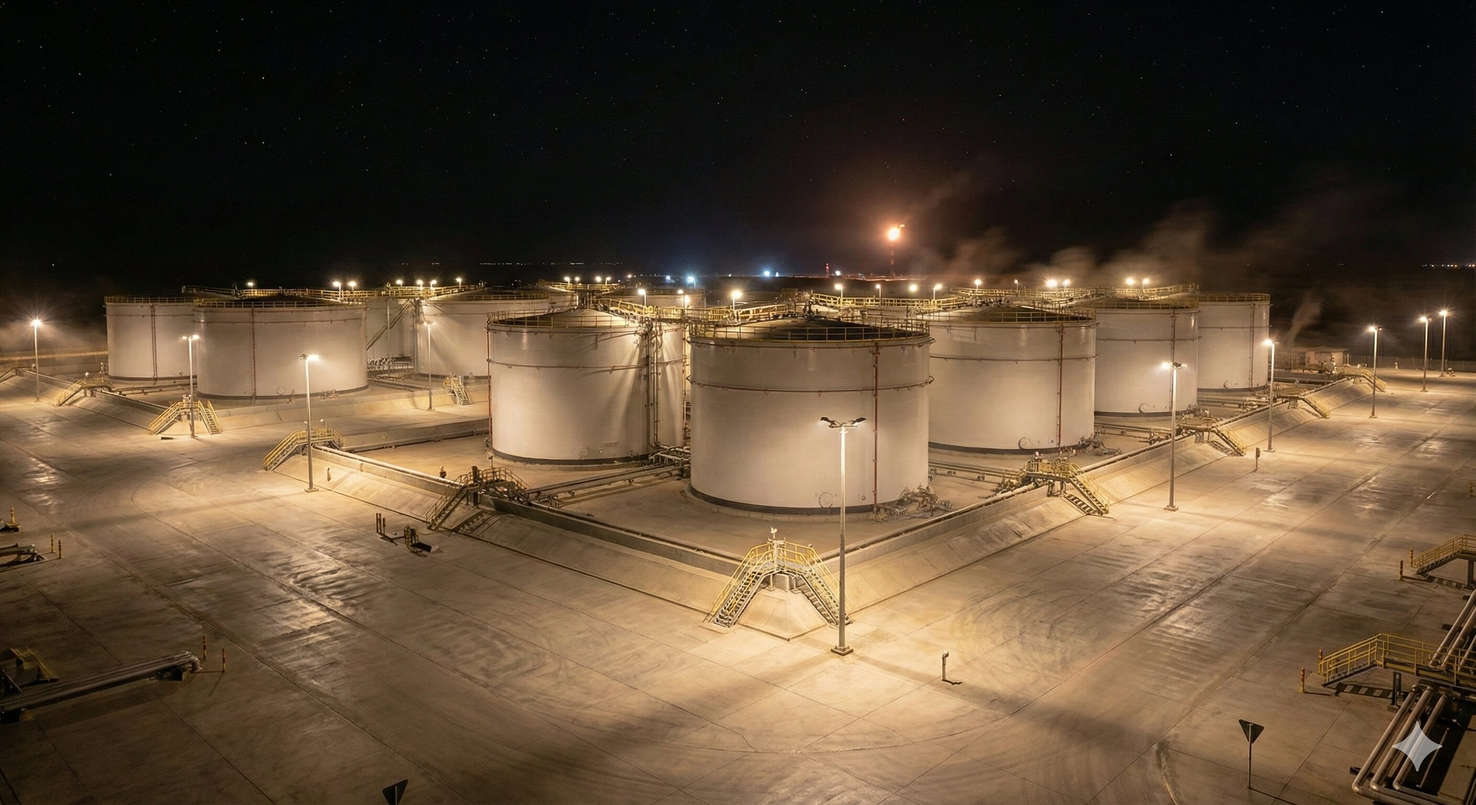
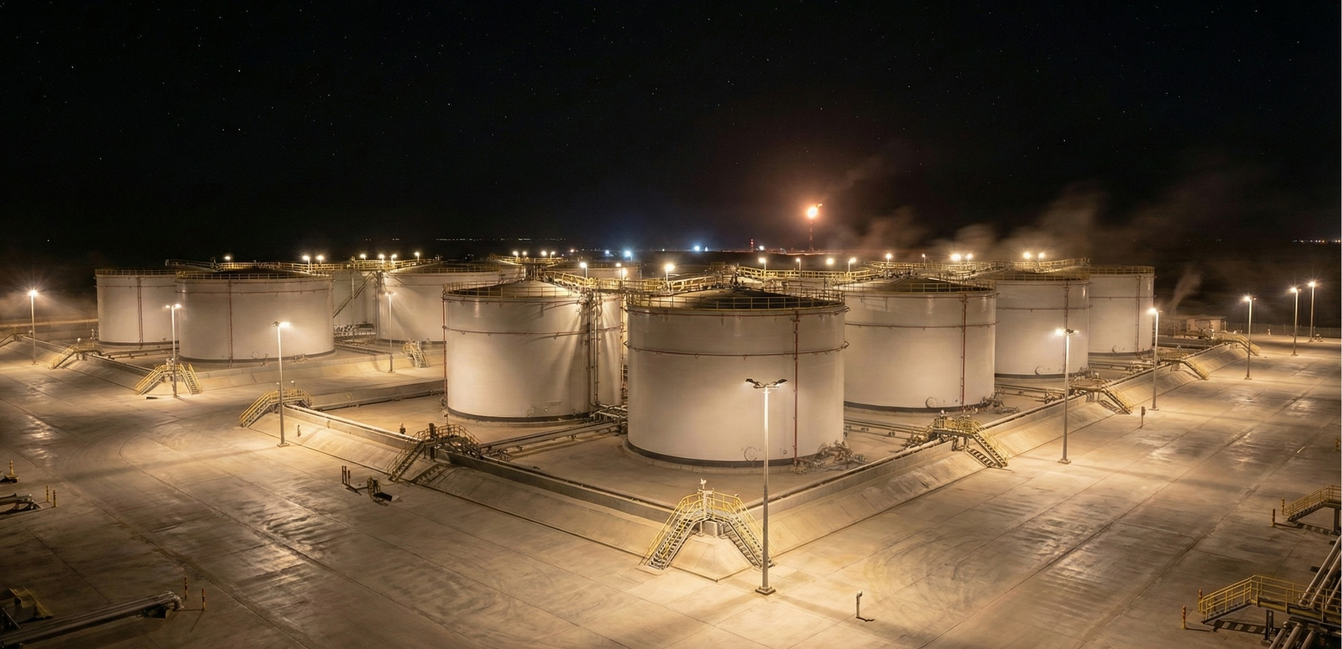
tr update

diff --git a/src/(pages)/project/Project.tsx b/src/(pages)/project/Project.tsx
@@ -101,45 +101,51 @@ export const Project = ({ project }: ProjectProps) => {
             {`Projects.Project.${project.id}.smallDescription`}
           </SpanL>
           <div className="flex flex-col gap-5">
-            {DetailFields.map((field, index) => (
-              <Fragment key={field.key}>
-                <motion.div
-                  initial={{ opacity: 0 }}
-                  animate={{ opacity: 1 }}
-                  transition={{ duration: 0.5, delay: index * 2 * 0.1 }}
-                  className="bg-on-primary w-full h-px"
-                />
-                <motion.div
-                  key={field.label}
-                  initial={{ opacity: 0 }}
-                  animate={{ opacity: 1 }}
-                  transition={{ duration: 0.5, delay: (index * 2 + 1) * 0.1 }}
-                  className="flex items-center justify-between"
-                >
-                  <SpanL upperCase noWrap className="text-sm font-extralight whitespace-nowrap max-2xl:text-xs">
-                    {field.label}
-                  </SpanL>
-                  <div className="flex gap-1 items-center font-semibold max-2xl:text-sm">
-                    {field.valueForm === "object" ? (
-                      <span>{project[field.key as keyof typeof Project]}</span>
-                    ) : field.valueForm === "startDate" || field.valueForm === "endDate" ? (
-                      <span>{formatProjectDate(project[field.key as keyof typeof Project], locale)}</span>
-                    ) : field.valueForm === "number" ? (
-                      <span>{formatProjectNumber(project[field.key as keyof typeof Project], locale)}</span>
-                    ) : field.valueForm === "localeString" ? (
-                      <SpanL className="text-end">{`Projects.Project.${project.id}.${field.key}`}</SpanL>
-                    ) : field.valueForm === "ProjectStatus" ? (
-                      <SpanL className={`text-end ${project[field.key as keyof typeof Project] ? "text-green-500 font-bold" : ""}`}>
-                        {`Common.${project[field.key as keyof typeof Project] ? "completed" : "onGoing"}`}
-                      </SpanL>
-                    ) : (
-                      <span>No value</span>
-                    )}
-                    {field.unit && <SpanL>{`Common.${field.unit}`}</SpanL>}
-                  </div>
-                </motion.div>
-              </Fragment>
-            ))}
+            {DetailFields.map((field, index) => {
+              if (field.valueForm === "number" && !(field.key in project)) return null;
+
+              return (
+                <Fragment key={field.key}>
+                  <motion.div
+                    initial={{ opacity: 0 }}
+                    animate={{ opacity: 1 }}
+                    transition={{ duration: 0.5, delay: index * 2 * 0.1 }}
+                    className="bg-on-primary w-full h-px"
+                  />
+                  <motion.div
+                    key={field.label}
+                    initial={{ opacity: 0 }}
+                    animate={{ opacity: 1 }}
+                    transition={{ duration: 0.5, delay: (index * 2 + 1) * 0.1 }}
+                    className="flex items-center justify-between"
+                  >
+                    <SpanL upperCase noWrap className="text-sm font-extralight whitespace-nowrap max-2xl:text-xs">
+                      {field.label}
+                    </SpanL>
+                    <div className="flex gap-1 items-center font-semibold max-2xl:text-sm">
+                      {field.valueForm === "object" ? (
+                        <span>{project[field.key as keyof typeof Project]}</span>
+                      ) : field.valueForm === "startDate" || field.valueForm === "endDate" ? (
+                        <span>
+                          {project[field.key as keyof typeof Project] == null ? "-" : formatProjectDate(project[field.key as keyof typeof Project], locale)}
+                        </span>
+                      ) : field.valueForm === "number" ? (
+                        <span>{formatProjectNumber(project[field.key as keyof typeof Project], locale)}</span>
+                      ) : field.valueForm === "localeString" ? (
+                        <SpanL className="text-end">{`Projects.Project.${project.id}.${field.key}`}</SpanL>
+                      ) : field.valueForm === "ProjectStatus" ? (
+                        <SpanL className={`text-end ${project[field.key as keyof typeof Project] ? "text-green-500 font-bold" : ""}`}>
+                          {`Common.${project[field.key as keyof typeof Project] ? "completed" : "onGoing"}`}
+                        </SpanL>
+                      ) : (
+                        <span>No value</span>
+                      )}
+                      {field.unit && <SpanL>{`Common.${field.unit}`}</SpanL>}
+                    </div>
+                  </motion.div>
+                </Fragment>
+              );
+            })}
           </div>
           {/* <ButtonL
             afterElement={<IoCloudDownloadOutline size={24} />}

diff --git a/src/constants/constants.tsx b/src/constants/constants.tsx
@@ -90,26 +90,25 @@ export const ProjectDetails = [
     id: "erbil-airport",
     client: "Mach Monument / Havatek",
     startDate: "2024-09-01",
-    endDate: "2026-04-01",
+    endDate: null,
     duration: 20,
     budget: 1150000,
-    manHours: null,
     services: [EngineeringService, ProcurementService],
     image: ErbilAirport,
     scopeCount: 7,
     isCompleted: false,
   },
   {
-    id: "khabat-power",
-    client: "MoE / Gama & POSCO",
-    startDate: "2015-06-01",
-    endDate: "2018-06-01",
-    duration: 36,
-    manHours: 598000,
-    budget: 6305500,
+    id: "khor-mor",
+    client: "Pearl Petroleum / Havatek",
+    startDate: "2022-02-01",
+    endDate: "2025-08-01",
+    duration: 42,
+    manHours: 948000,
+    budget: 9836000,
     services: [ConstructionService, PreCommissioningService],
-    image: KhabatPower,
-    scopeCount: 8,
+    image: KhorMor,
+    scopeCount: 10,
     isCompleted: true,
   },
   {
@@ -126,29 +125,16 @@ export const ProjectDetails = [
     isCompleted: true,
   },
   {
-    id: "khor-mor",
-    client: "Pearl Petroleum / Havatek",
-    startDate: "2022-02-01",
-    endDate: "2025-08-01",
-    duration: 42,
-    manHours: 948000,
-    budget: 9836000,
+    id: "khabat-power",
+    client: "M.O.E. / Gama & POSCO",
+    startDate: "2015-06-01",
+    endDate: "2018-06-01",
+    duration: 36,
+    manHours: 598000,
+    budget: 6305500,
     services: [ConstructionService, PreCommissioningService],
-    image: KhorMor,
-    scopeCount: 10,
-    isCompleted: false,
-  },
-  {
-    id: "nainawa-power",
-    client: "MoE / Çalık Enerji",
-    startDate: "2012-12-01",
-    endDate: "2014-04-01",
-    duration: 16,
-    manHours: 490000,
-    budget: 5065000,
-    services: [ConstructionService, PreCommissioningService],
-    image: NainawaPower,
-    scopeCount: 7,
+    image: KhabatPower,
+    scopeCount: 8,
     isCompleted: true,
   },
   {
@@ -178,6 +164,19 @@ export const ProjectDetails = [
     isCompleted: true,
   },
   {
+    id: "ttopco-cpf2",
+    client: "Taq Taq Operating Co / Ventech",
+    startDate: "2015-02-01",
+    endDate: "2016-10-01",
+    duration: 21,
+    manHours: 130000,
+    budget: 2250000,
+    services: [ConstructionService, PreCommissioningService],
+    image: TtopcoCpf2,
+    scopeCount: 8,
+    isCompleted: true,
+  },
+  {
     id: "ttopco-tanker",
     client: "Taq Taq Operating Co / Havatek",
     startDate: "2013-04-01",
@@ -191,16 +190,16 @@ export const ProjectDetails = [
     isCompleted: true,
   },
   {
-    id: "ttopco-cpf2",
-    client: "Taq Taq Operating Co / Ventech",
-    startDate: "2015-02-01",
-    endDate: "2016-10-01",
-    duration: 21,
-    manHours: 130000,
-    budget: 2250000,
+    id: "nainawa-power",
+    client: "M.O.E. / Çalık Enerji",
+    startDate: "2012-12-01",
+    endDate: "2014-04-01",
+    duration: 16,
+    manHours: 490000,
+    budget: 5065000,
     services: [ConstructionService, PreCommissioningService],
-    image: TtopcoCpf2,
-    scopeCount: 8,
+    image: NainawaPower,
+    scopeCount: 7,
     isCompleted: true,
   },
 ] as ProjectModel[];

diff --git a/src/(pages)/service/Service.tsx b/src/(pages)/service/Service.tsx
@@ -55,7 +55,7 @@ export const Service = ({ service }: ServiceProps) => {
                 <div className="text-secondary bg-secondary/10 p-3 rounded-full shrink-0">{FeatureIcons[idx]}</div>
                 <div className="flex flex-col gap-2">
                   <SpanL className="text-xl font-medium text-primary">{`Services.${service.id}.features.${idx}.title`}</SpanL>
-                  <SpanL className="text-on-background/70 leading-relaxed">{`Services.${service.id}.features.${idx}.description`}</SpanL>
+                  <SpanL className="text-on-background/70 text-lg leading-relaxed">{`Services.${service.id}.features.${idx}.description`}</SpanL>
                 </div>
               </motion.div>
             ))}

diff --git a/src/(pages)/hse/components/Policy.tsx b/src/(pages)/hse/components/Policy.tsx
@@ -7,7 +7,7 @@ export const Policy = () => {
     <div className="flex flex-col px-[12%] py-20 max-2xl:px-[8%]">
       <SpanL className="text-5xl ml-1 font-semibold mb-12 text-primary">Hse.Policy.title</SpanL>
       <div className="flex gap-20">
-        <SpanL className="flex-2 tracking-wider text-justify font-light">Hse.Policy.text</SpanL>
+        <SpanL className="flex-2 tracking-wider font-light">Hse.Policy.text</SpanL>
         <div className="relative flex-1 aspect-3/4 z-10 rounded-sm overflow-hidden -mb-[15%] max-2xl:-mb-[12%]">
           <Image src={PolicyImage} alt="hse-policy" fill priority sizes="100%" className="object-cover" />
         </div>

diff --git a/src/(pages)/home/components/Performance.tsx b/src/(pages)/home/components/Performance.tsx
@@ -19,7 +19,7 @@ const PerformanceStats = [
   },
   {
     label: "completedManHour",
-    value: "150+",
+    value: "948.000+",
     icon: <BiStopwatch size={72} />,
   },
   {
@@ -29,7 +29,7 @@ const PerformanceStats = [
   },
   {
     label: "cablesInstalled",
-    value: "200.000+",
+    value: "1.054.960+",
     icon: <MdElectricalServices size={72} />,
   },
 ];

diff --git a/src/(pages)/corporate/components/About.tsx b/src/(pages)/corporate/components/About.tsx
@@ -25,7 +25,7 @@ export const About = () => {
       >
         <div className="flex px-4 gap-3 text-4xl">
           <SpanL className="font-extralight">Corporate.About.title</SpanL>
-          <span className="font-semibold">2007</span>
+          <span className="font-semibold">2002</span>
         </div>
       </motion.div>
       <SpanL
